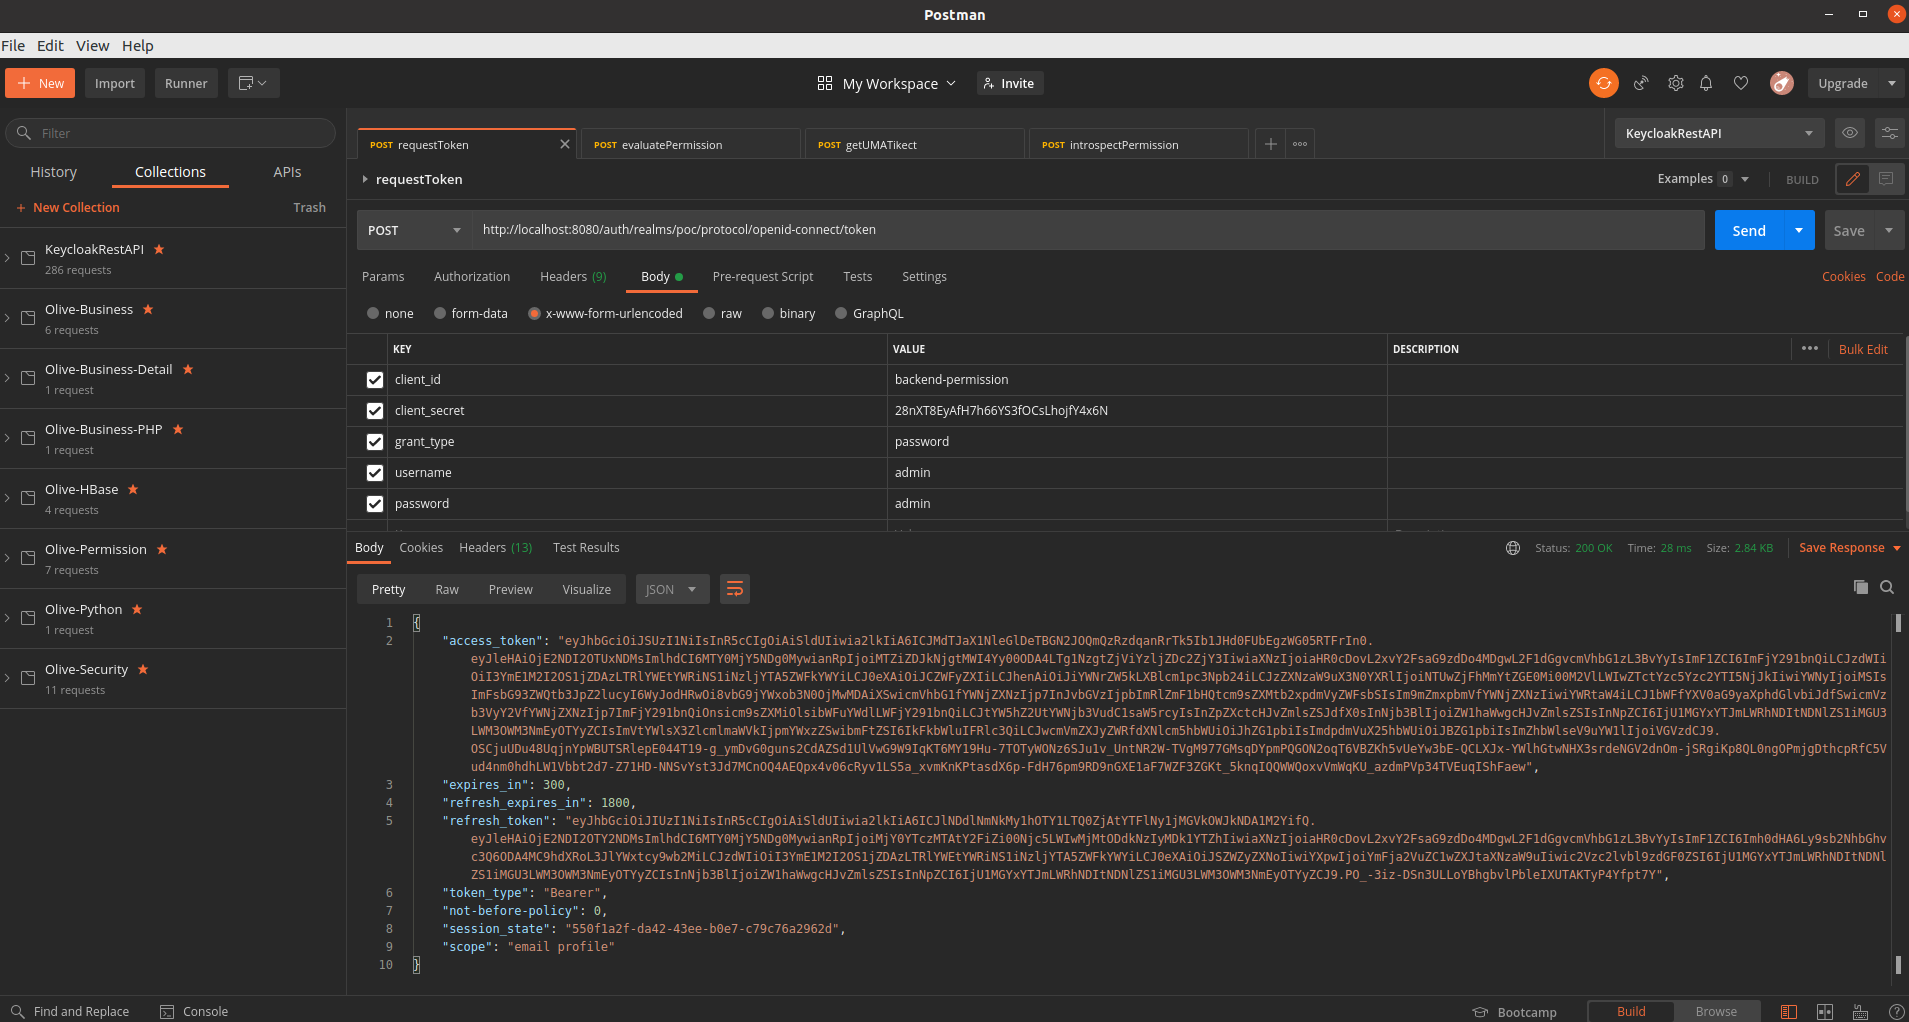
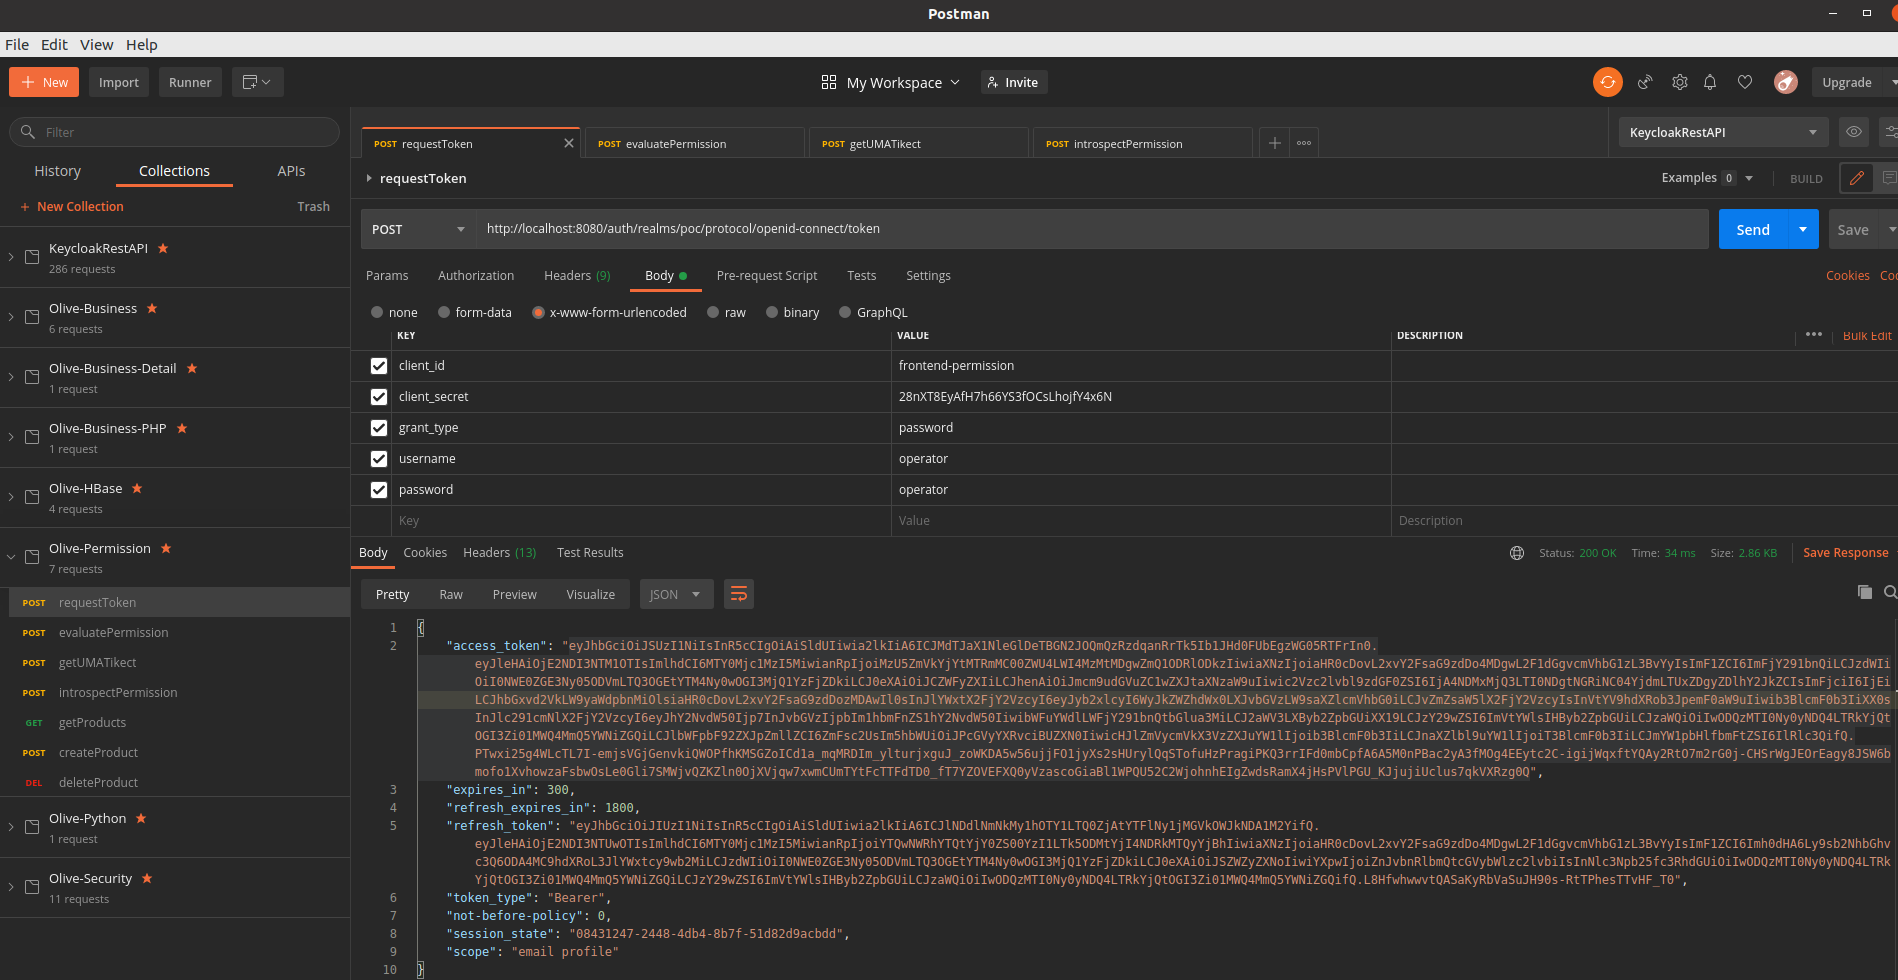
last commit

diff --git a/README.md b/README.md
@@ -9,8 +9,10 @@ Create a realm to group all security entities: client, roles and permissions
 
 ![Create a realm](captures/create_realm.png "Create a realm")
 
-- Create a client with cliend id: **backend-permission**
-We must create a client of type confidential and active the Authorization flag lñike this
+- Create a clients with cliend id:  **frontend-permission**, **backend-permission**
+We must create two clients:
+ **frontend-permission** of public type -> to login and recover Access Tokens 
+ **backend-permission** of confidential type with the flag Authorization Enabled activated -> to recover permissins and validate then against resources
 
 ![Create a client](captures/create_client.png "Create a client")
 
